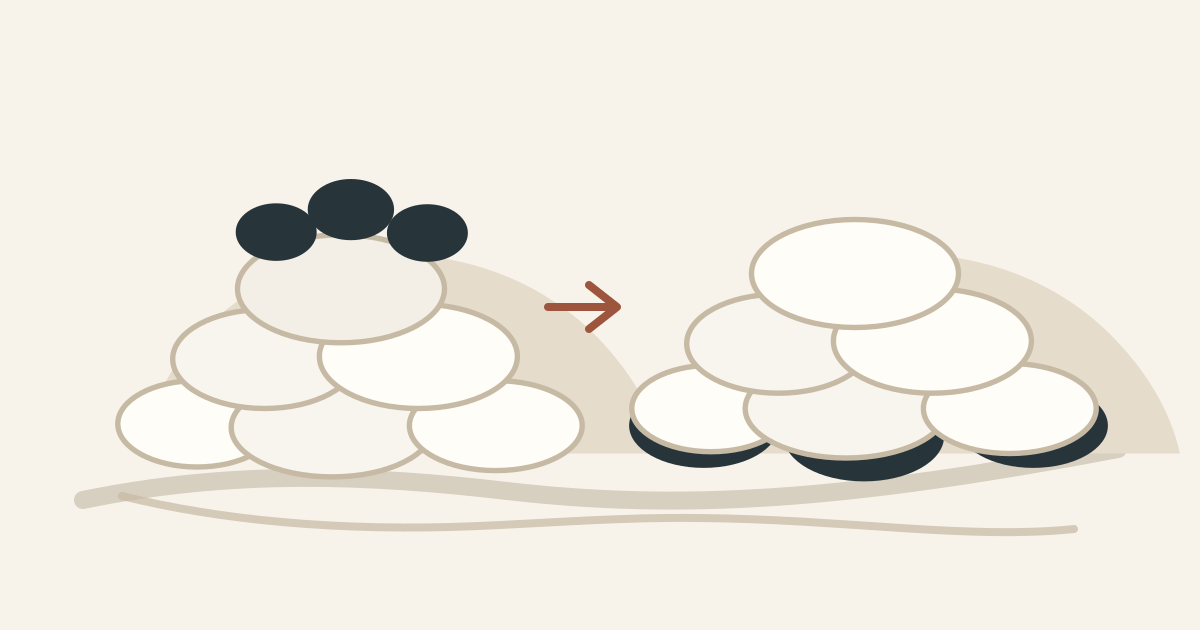
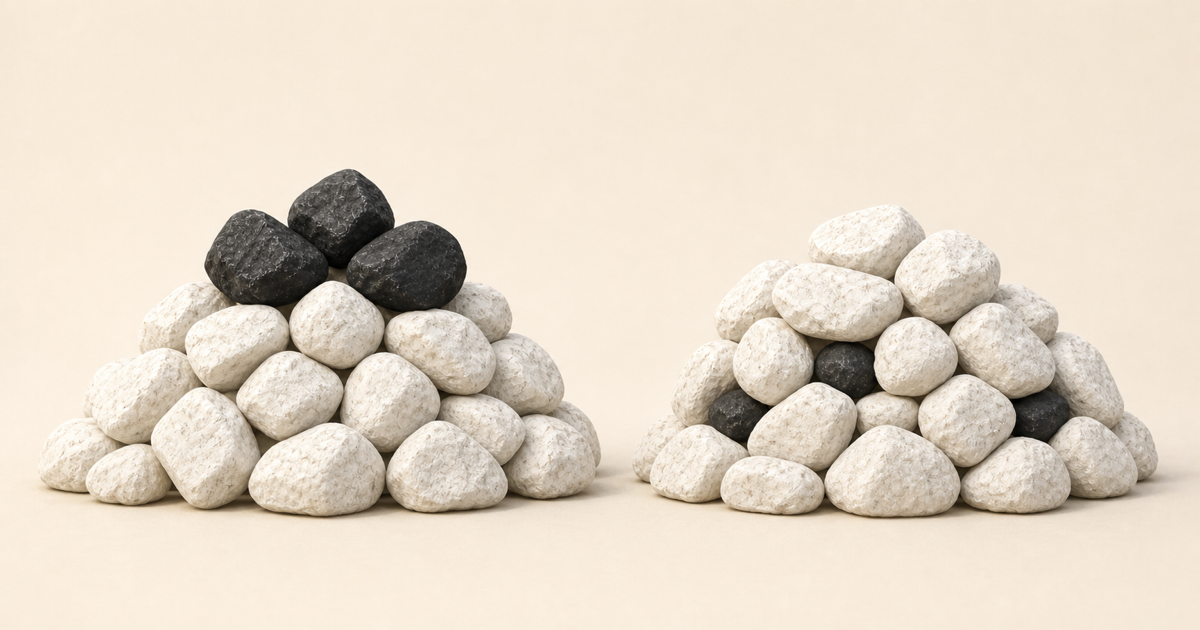
Update Three Things article image

Changed region(s): [[0.0308, 0.2714, 1.0, 0.8746], [0.925, 0.0, 1.0, 0.1508]]

diff --git a/src/content/entries/three-things-you-cant-stand.md b/src/content/entries/three-things-you-cant-stand.md
@@ -4,8 +4,8 @@ title: Three Things You Can't Stand
 description: New tools solve old pain and bring their own. Find the tradeoffs before you bet the system on them.
 pubDate: 2026-05-26
 image:
-  src: /writing/three-things-you-cant-stand.svg
-  alt: Two pale rock stacks, one with three dark stones on top and one with three dark stones visible at the bottom.
+  src: /writing/three-things-you-cant-stand.png
+  alt: Two piles of white rocks, one with three dark rocks on top and one with three dark rocks buried inside.
 category: Technology
 tags:
   - writing
